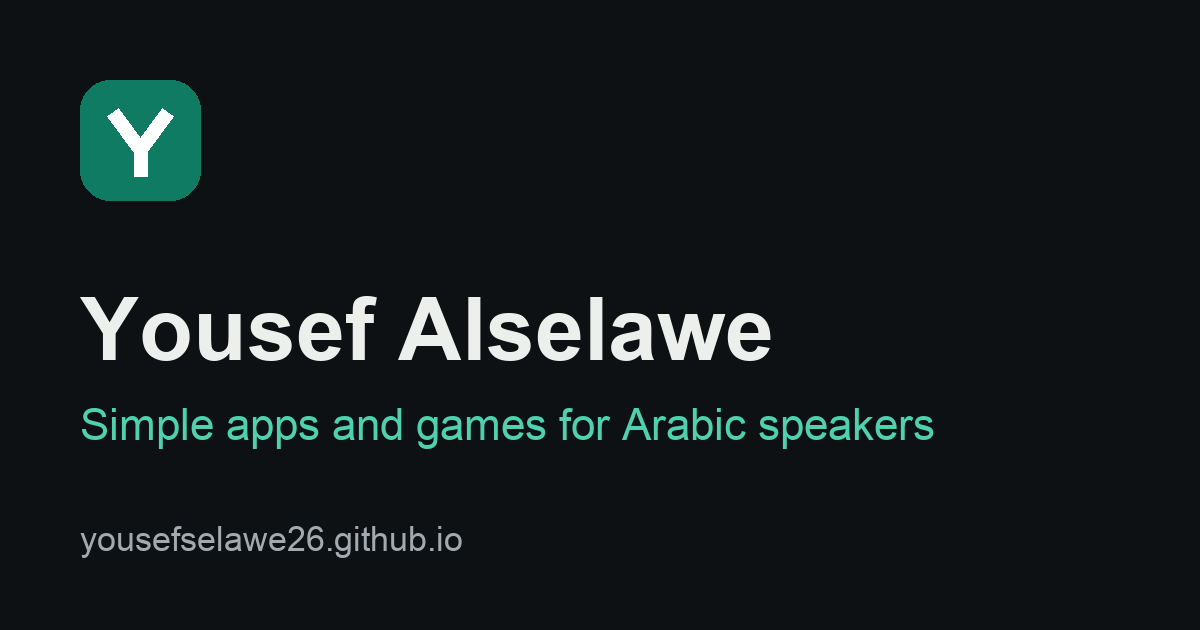
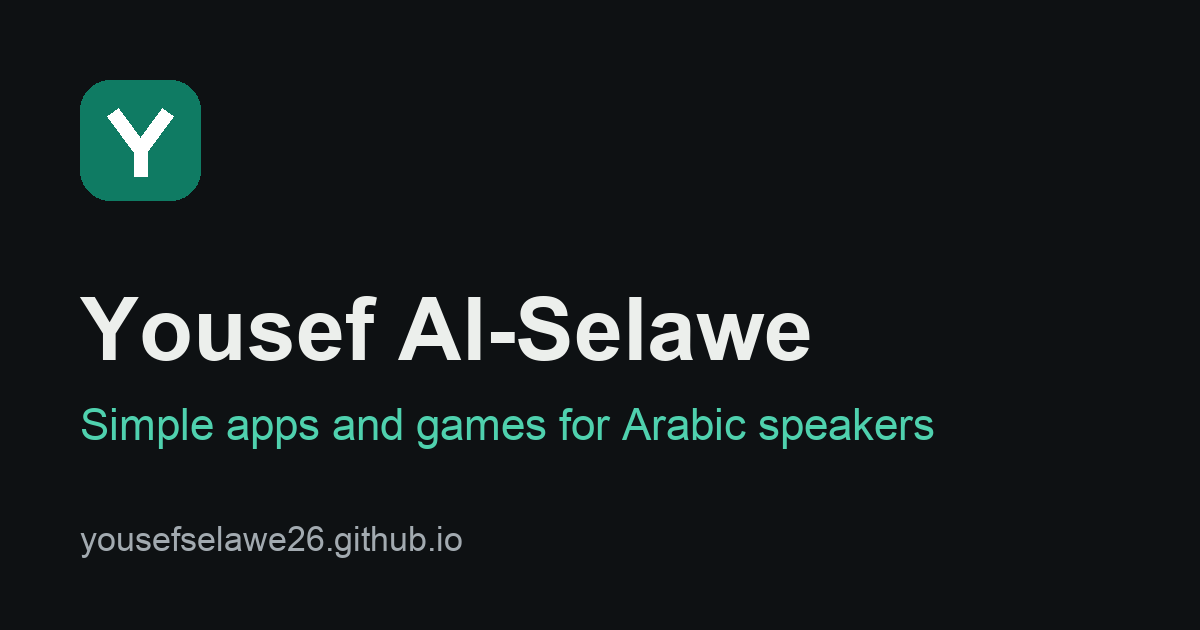
Developer name: Yousef Al-Selawe

Changed region(s): [[0.4008, 0.4524, 0.6783, 0.573]]

diff --git a/privacy.html b/privacy.html
@@ -80,7 +80,7 @@
       <!-- ===================== العربية ===================== -->
       <section data-lang="ar" lang="ar" dir="rtl" id="ar">
         <p class="meta">آخر تحديث: 22 نوفمبر 2026</p>
-        <p>توضّح هذه السياسة كيف يتعامل تطبيق <strong>كوكو إنجليزي (Coco English)</strong> مع بياناتك. المطوّر: <strong>Yousef Alselawe</strong>. للتواصل: <a href="mailto:yousef.selawe26@gmail.com">yousef.selawe26@gmail.com</a>.</p>
+        <p>توضّح هذه السياسة كيف يتعامل تطبيق <strong>كوكو إنجليزي (Coco English)</strong> مع بياناتك. المطوّر: <strong>Yousef Al-Selawe</strong>. للتواصل: <a href="mailto:yousef.selawe26@gmail.com">yousef.selawe26@gmail.com</a>.</p>
         <div class="note">باختصار: لا نطلب منك إنشاء حساب، ولا نجمع اسمك أو بريدك. تقدّمك في التعلّم محفوظ على جهازك فقط. الإعلانات تقدّمها Google AdMob، والاشتراكات تتم عبر Google Play.</div>
 
         <h2>1. البيانات المحفوظة على جهازك</h2>
@@ -126,13 +126,13 @@
         <p>قد نحدّث هذه السياسة، وسننشر النسخة الجديدة على هذه الصفحة مع تاريخ التحديث.</p>
 
         <h2>12. التواصل</h2>
-        <p>Yousef Alselawe — <a href="mailto:yousef.selawe26@gmail.com">yousef.selawe26@gmail.com</a></p>
+        <p>Yousef Al-Selawe — <a href="mailto:yousef.selawe26@gmail.com">yousef.selawe26@gmail.com</a></p>
       </section>
 
       <!-- ===================== English ===================== -->
       <section data-lang="en" lang="en" dir="ltr" id="en">
         <p class="meta">Last updated: November 22, 2026</p>
-        <p>This policy explains how the <strong>Coco English</strong> app handles your data. Developer: <strong>Yousef Alselawe</strong>. Contact: <a href="mailto:yousef.selawe26@gmail.com">yousef.selawe26@gmail.com</a>.</p>
+        <p>This policy explains how the <strong>Coco English</strong> app handles your data. Developer: <strong>Yousef Al-Selawe</strong>. Contact: <a href="mailto:yousef.selawe26@gmail.com">yousef.selawe26@gmail.com</a>.</p>
         <div class="note">In short: no account is required and we don't collect your name or email. Your learning progress stays on your device. Ads are served by Google AdMob, and subscriptions are handled by Google Play.</div>
 
         <h2>1. Data stored on your device</h2>
@@ -178,12 +178,12 @@
         <p>We may update this policy. The new version will be posted on this page with its update date.</p>
 
         <h2>12. Contact</h2>
-        <p>Yousef Alselawe — <a href="mailto:yousef.selawe26@gmail.com">yousef.selawe26@gmail.com</a></p>
+        <p>Yousef Al-Selawe — <a href="mailto:yousef.selawe26@gmail.com">yousef.selawe26@gmail.com</a></p>
       </section>
     </div>
   </main>
 
-  <footer><a href="coco-english/">Coco English</a> · <a href="./">Yousef Alselawe</a> · © 2026 Yousef Alselawe</footer>
+  <footer><a href="coco-english/">Coco English</a> · <a href="./">Yousef Al-Selawe</a> · © 2026 Yousef Al-Selawe</footer>
 
   <script>
     (function () {

diff --git a/index.html b/index.html
@@ -3,8 +3,8 @@
 <head>
   <meta charset="utf-8" />
   <meta name="viewport" content="width=device-width, initial-scale=1" />
-  <title>Yousef Alselawe — تطبيقات بسيطة بالعربي</title>
-  <meta name="description" content="تطبيقات وألعاب موبايل بسيطة وخفيفة، مصمّمة للمستخدم العربي. تعرّف على تطبيقات Yousef Alselawe وتواصل للدعم." />
+  <title>Yousef Al-Selawe — تطبيقات بسيطة بالعربي</title>
+  <meta name="description" content="تطبيقات وألعاب موبايل بسيطة وخفيفة، مصمّمة للمستخدم العربي. تعرّف على تطبيقات Yousef Al-Selawe وتواصل للدعم." />
   <meta name="theme-color" content="#0F7B63" />
   <link rel="icon" href="dev-icon.svg" type="image/svg+xml" />
   <link rel="canonical" href="https://yousefselawe26.github.io/" />
@@ -13,7 +13,7 @@
   <link rel="alternate" hreflang="x-default" href="https://yousefselawe26.github.io/" />
   <meta property="og:type" content="website" />
   <meta property="og:url" content="https://yousefselawe26.github.io/" />
-  <meta property="og:title" content="Yousef Alselawe — تطبيقات بسيطة بالعربي" />
+  <meta property="og:title" content="Yousef Al-Selawe — تطبيقات بسيطة بالعربي" />
   <meta property="og:description" content="تطبيقات وألعاب موبايل بسيطة وخفيفة، مصمّمة للمستخدم العربي." />
   <meta property="og:image" content="https://yousefselawe26.github.io/og.png" />
   <meta property="og:locale" content="ar_JO" />
@@ -27,7 +27,7 @@
   {
     "@context": "https://schema.org",
     "@type": "Person",
-    "name": "Yousef Alselawe",
+    "name": "Yousef Al-Selawe",
     "url": "https://yousefselawe26.github.io/",
     "email": "mailto:yousef.selawe26@gmail.com",
     "jobTitle": "Mobile app developer"
@@ -37,9 +37,9 @@
 <body>
   <div class="wrap">
     <header class="top">
-      <a class="brand" href="./" aria-label="Yousef Alselawe">
+      <a class="brand" href="./" aria-label="Yousef Al-Selawe">
         <img src="dev-icon.svg" alt="" width="36" height="36" />
-        <span>Yousef Alselawe</span>
+        <span>Yousef Al-Selawe</span>
       </a>
       <a class="lang" href="en/" lang="en" hreflang="en">English</a>
     </header>
@@ -87,7 +87,7 @@
     </main>
 
     <footer>
-      <span lang="en" dir="ltr">© 2026 Yousef Alselawe</span>
+      <span lang="en" dir="ltr">© 2026 Yousef Al-Selawe</span>
       <a href="privacy.html#ar">سياسة خصوصية كوكو إنجليزي</a>
       <a href="en/" lang="en" hreflang="en">English</a>
     </footer>
